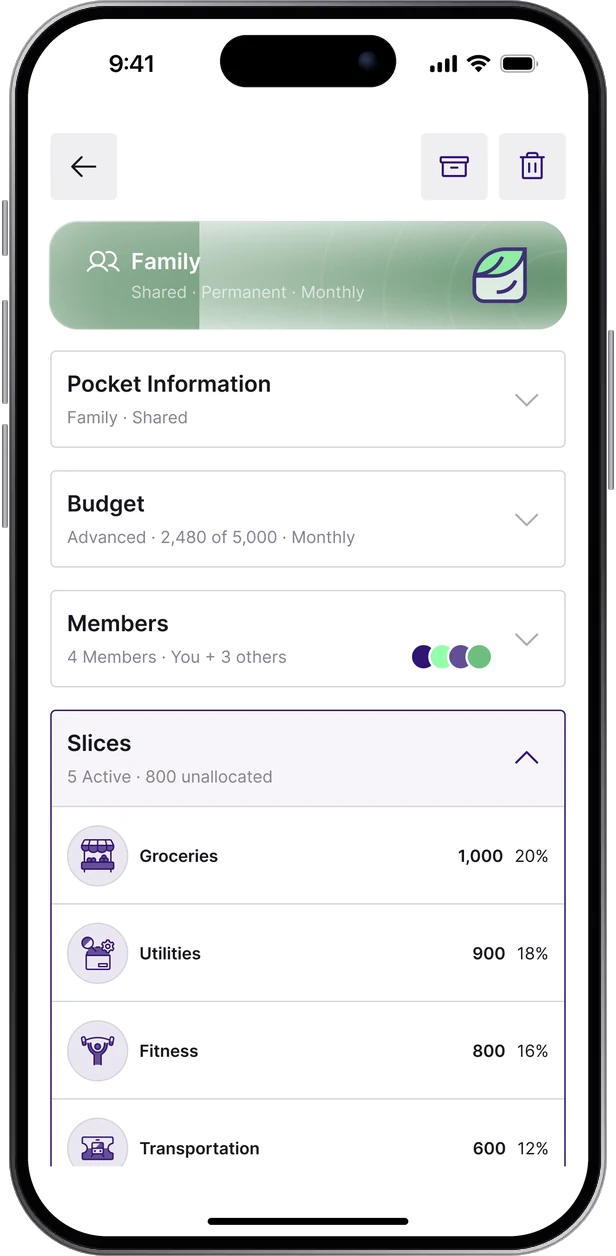
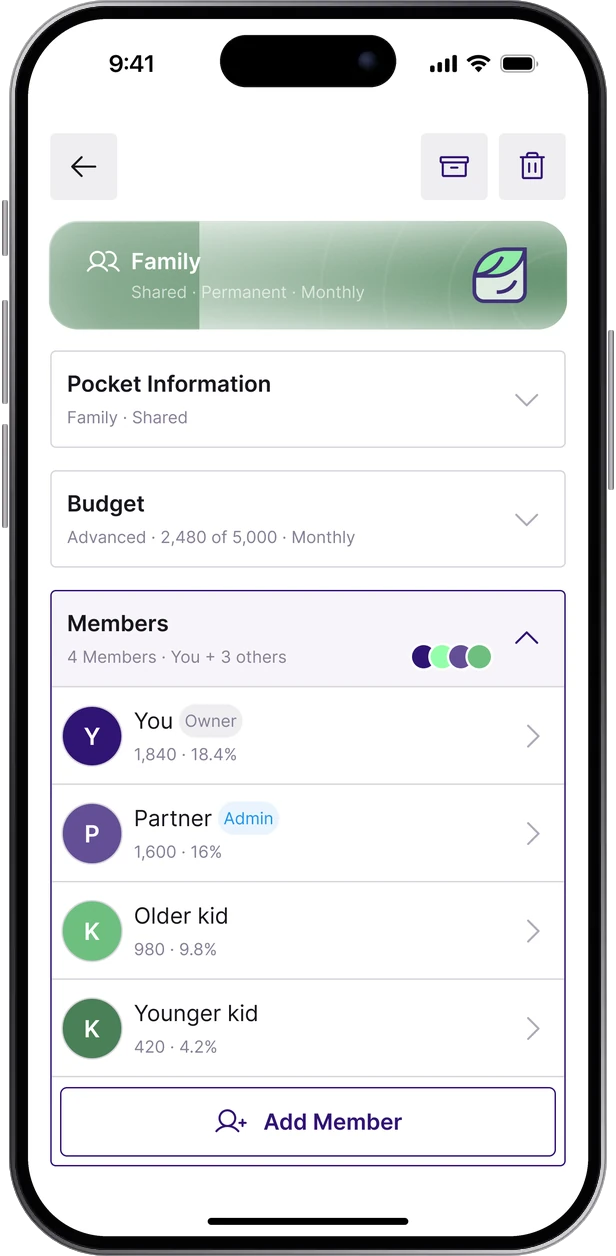
Shoppers: Shared Pocket shows the members list
Claude-Session: https://claude.ai/code/session_01PTZy5ZPui8wdjry3PYrNQL

diff --git a/content/v2/shoppers.tsx b/content/v2/shoppers.tsx
@@ -137,9 +137,9 @@ export const SH_SHARED = {
   // Real app screen (Pocket details, Shared), neutral copy from Figma.
   phone: {
     src: "/v2/ph-scr-shared.webp",
-    alt: "A Shared Pocket called Family in the Rasheed app: a monthly budget of 5,000 with 2,480 spent, 4 members, and Slices for groceries, utilities, fitness and transportation",
+    alt: "A Shared Pocket called Family in the Rasheed app: a monthly budget of 5,000 with 2,480 spent, and its 4 members: you as owner, your partner as admin, and two kids, each with what they spent",
   },
-  chip: { title: "4 Members", sub: "You + 3 others" },
+  chip: { title: "2,480 of 5,000", sub: "Spent together this month" },
 };
 
 export const SH_STATS = {

diff --git a/components/v2/shoppers/ShShared.tsx b/components/v2/shoppers/ShShared.tsx
@@ -21,7 +21,7 @@ export function ShShared({ content: c }: { content: typeof SH_SHARED }) {
             {/* eslint-disable-next-line @next/next/no-img-element */}
             <img className="sh-shot sh-shared__phone" src={c.phone.src} width={616} height={1256} alt={c.phone.alt} loading="lazy" />
             <div className="sh-card sh-shared__chip" aria-hidden="true">
-              <span className="sh-tick"><Icon name="users" strokeWidth={2.2} /></span>
+              <span className="sh-tick"><Icon name="pie" strokeWidth={2.2} /></span>
               <span>
                 <span className="sh-card__title">{c.chip.title}</span>
                 <span className="sh-card__sub">{c.chip.sub}</span>
